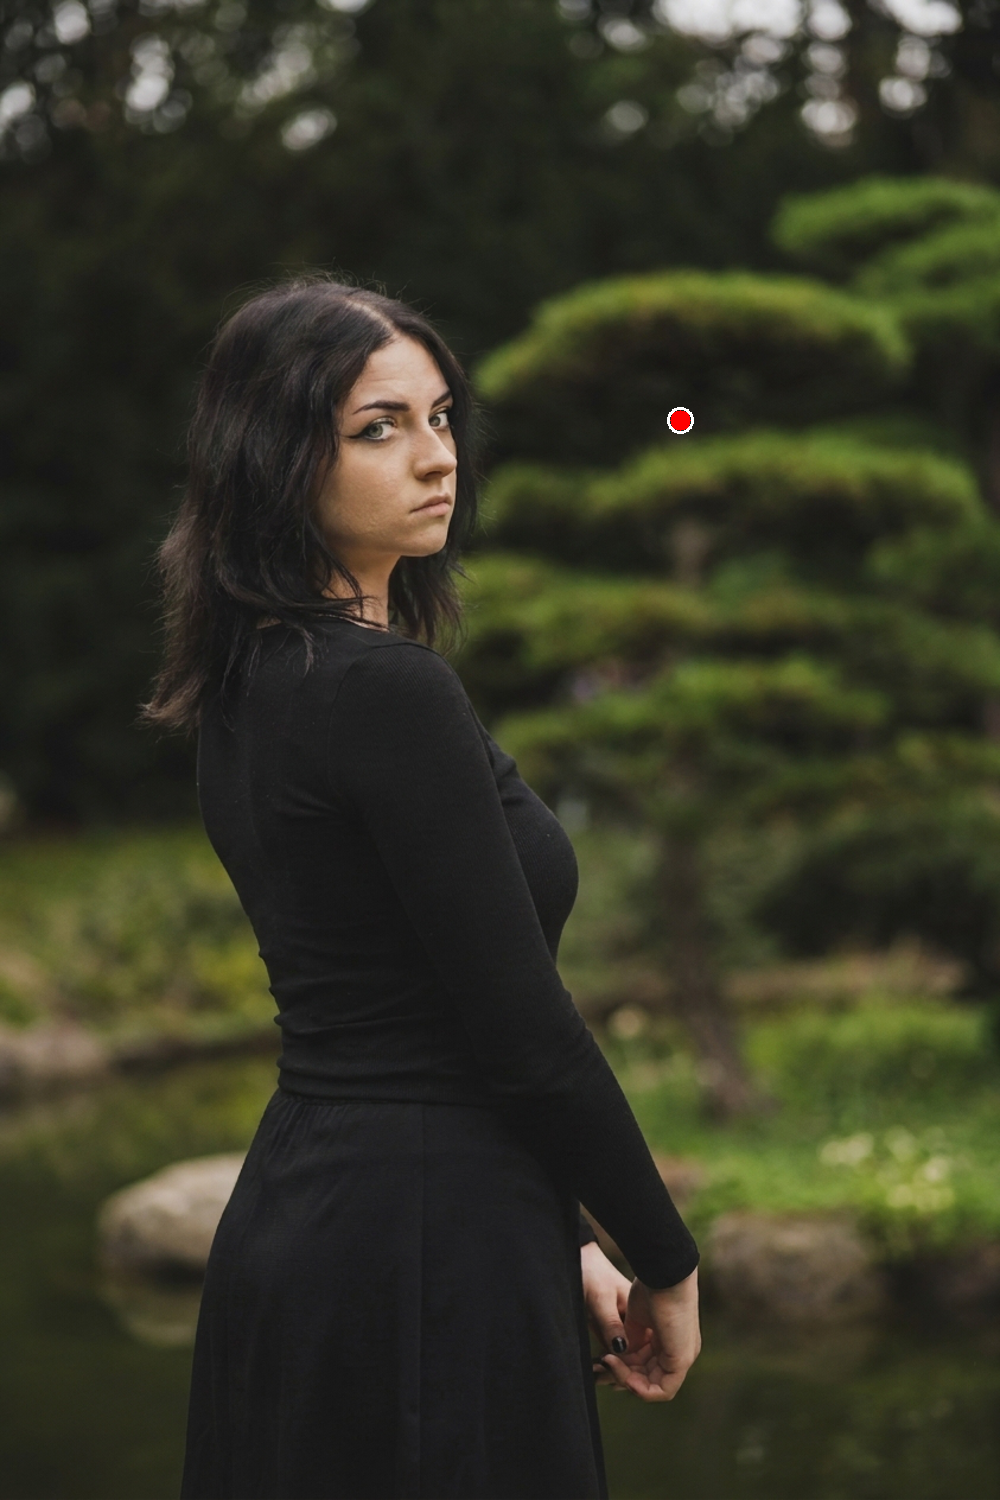
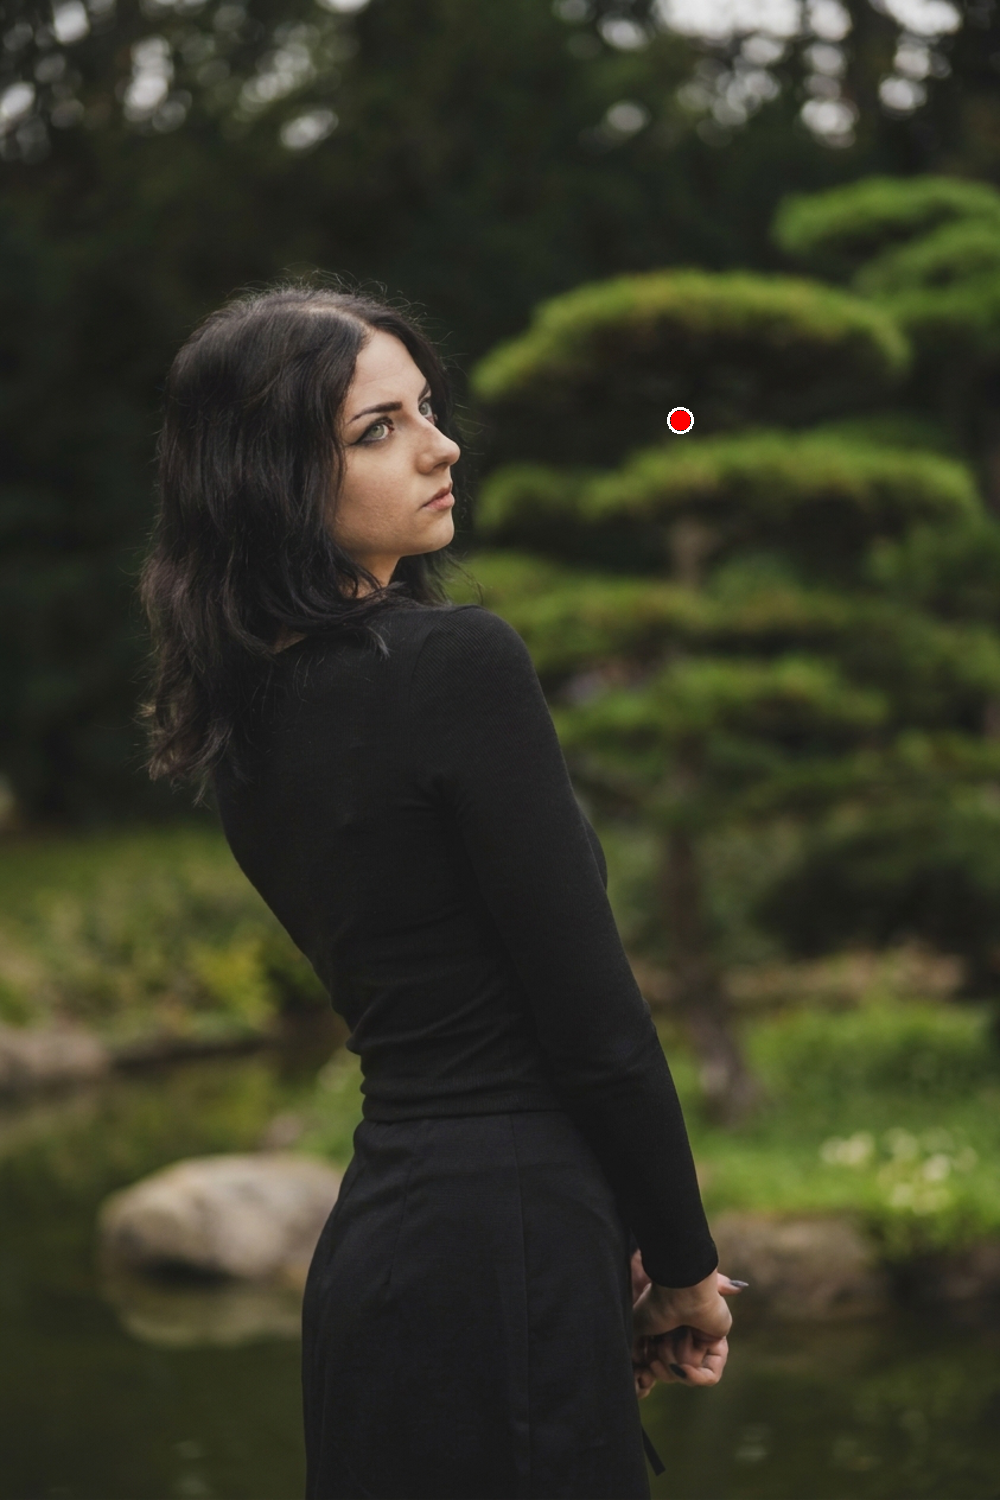
Improve the BEHIND-depth prompt to reliably trigger a full turn; add reference dots
The plain "BEHIND" prompt sometimes only got a half-hearted glance instead
of a real turn. build_depth_aware_prompt now adds an explicit line for
that case describing a physical turn ("the way someone turns around when
they hear their name called from behind") - shipped in both
manual_process_path_e.py and dataset_pipeline.py, verified against the
depth-far ablation demo which now shows a clean, decisive turn toward the
target instead of a weak reaction.

Also added a manual reference dot to the turnaround demo's after.png at
the actual coordinates the target was placed, and refreshed depth_far.png
with the stronger-prompt result (dot included).

diff --git a/manual_process_path_e.py b/manual_process_path_e.py
@@ -222,6 +222,14 @@ def build_depth_aware_prompt(chosen_depth, person_depth, facing_away):
         "OUTPUT: Return Image 1 with the person's new gaze. DO NOT move the red dot. Keep background black.\n"
         "TASK: On Image 1, IGNORE the person's current gaze and REDIRECT the person's eyes and HEAD to face the exact 3D position of the solid red dot.\n"
     )
+    if rel == "BEHIND":
+        prompt += (
+            "The target is far away and behind the person's current line of sight, so "
+            "they must physically turn their head and upper body around to look back "
+            "over their shoulder toward it, the way someone turns around when they hear "
+            "their name called from behind — a large, obvious head-and-shoulder "
+            "rotation, not just a small glance or eye movement.\n"
+        )
     return prompt
 
 

diff --git a/dataset_pipeline.py b/dataset_pipeline.py
@@ -264,6 +264,14 @@ def build_depth_aware_prompt(chosen_depth, person_depth, extra=""):
         "TASK: On Image 1, IGNORE the person's current gaze and REDIRECT the person's "
         "eyes and HEAD to face the exact 3D position of the solid red dot.\n"
     )
+    if rel == "BEHIND":
+        prompt += (
+            "The target is far away and behind the person's current line of sight, so "
+            "they must physically turn their head and upper body around to look back "
+            "over their shoulder toward it, the way someone turns around when they hear "
+            "their name called from behind — a large, obvious head-and-shoulder "
+            "rotation, not just a small glance or eye movement.\n"
+        )
     if extra:
         prompt += extra.strip() + "\n"
     return prompt

diff --git a/README.md b/README.md
@@ -52,15 +52,21 @@ depth map — dark/purple = far, bright/yellow = near):
 | ![depth far result](assets/ablation/depth_far.png) | ![depth near result](assets/ablation/full.png) | ![no depth result](assets/ablation/no_depth_prompt.png) |
 
 Same 2D point, two clearly different outcomes: told the target is *far
-behind her*, she turns further and more decisively to glance back over her
-shoulder, toward the camera; told the exact same screen position is *close,
-in front of her*, she only tilts her head/eyes up toward it, a smaller and
-less committed motion. Remove the depth image entirely and Gemini doesn't
-move her at all — a 2D point alone doesn't tell it whether "behind" is
-even a possibility. (Gemini's edits aren't perfectly repeatable — re-running
-the far-depth case a few times produced everything from almost no reaction
-to a full 180° turn-away; the version shown here is a representative
-middle-of-the-road result, not a cherry-picked best case.)
+behind her*, she turns her whole body around to look back over her
+shoulder; told the exact same screen position is *close, in front of her*,
+she only tilts her head/eyes up toward it, a smaller and less committed
+motion. Remove the depth image entirely and Gemini doesn't move her at
+all — a 2D point alone doesn't tell it whether "behind" is even a
+possibility.
+
+Getting the "BEHIND" case to reliably commit to a full turn (rather than a
+half-hearted glance, which is what repeated runs of the plain prompt
+sometimes produced) took an explicit nudge: `build_depth_aware_prompt` now
+adds an extra line for the `BEHIND` case specifically, spelling out that
+this requires physically turning around "the way someone turns around when
+they hear their name called from behind." That line is shipped in both
+`manual_process_path_e.py` and `dataset_pipeline.py`, not just used for
+this demo.
 
 ### 2. A visual marker beats describing the target in words
 
